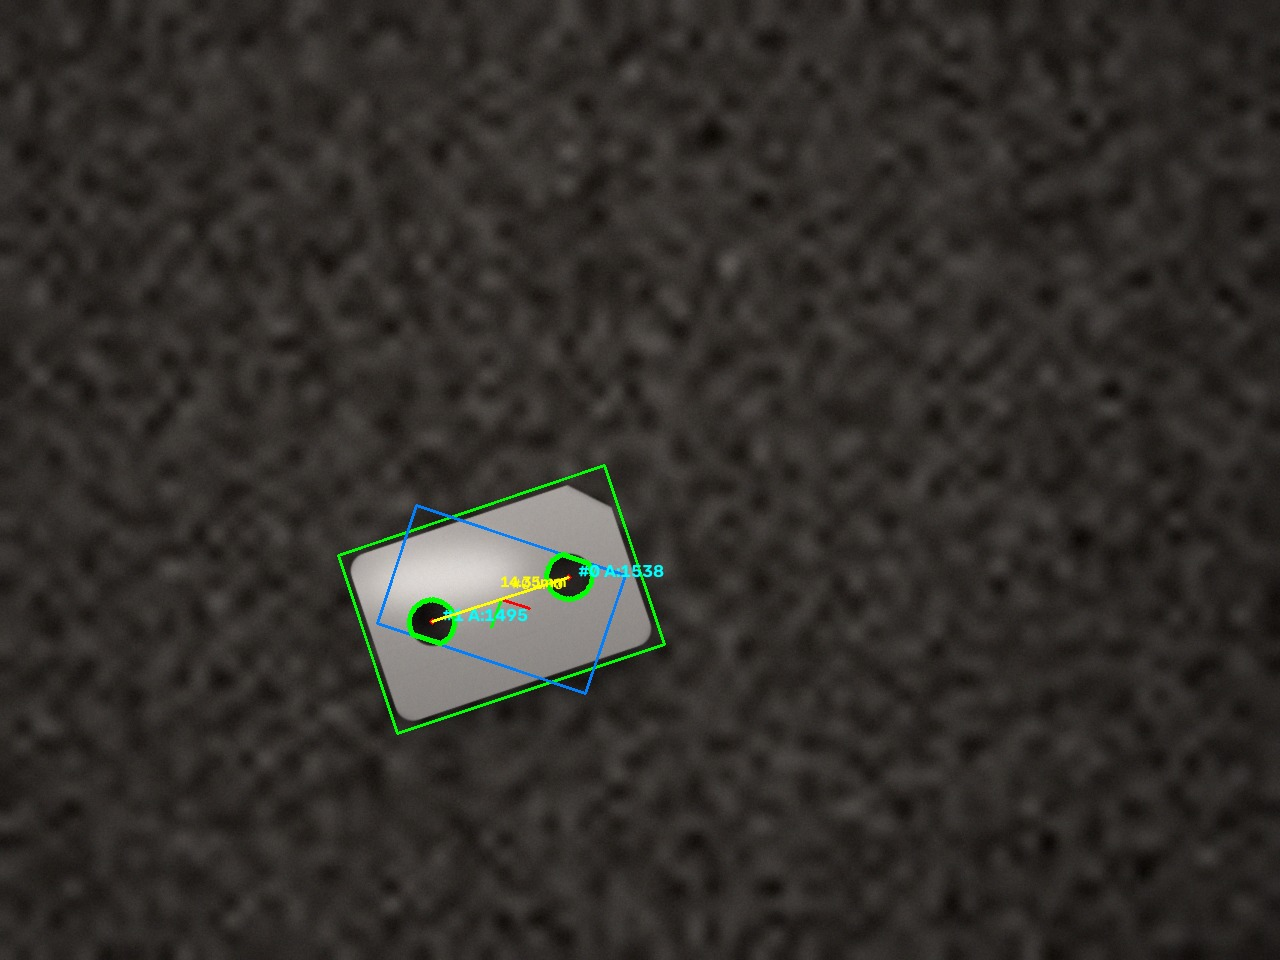
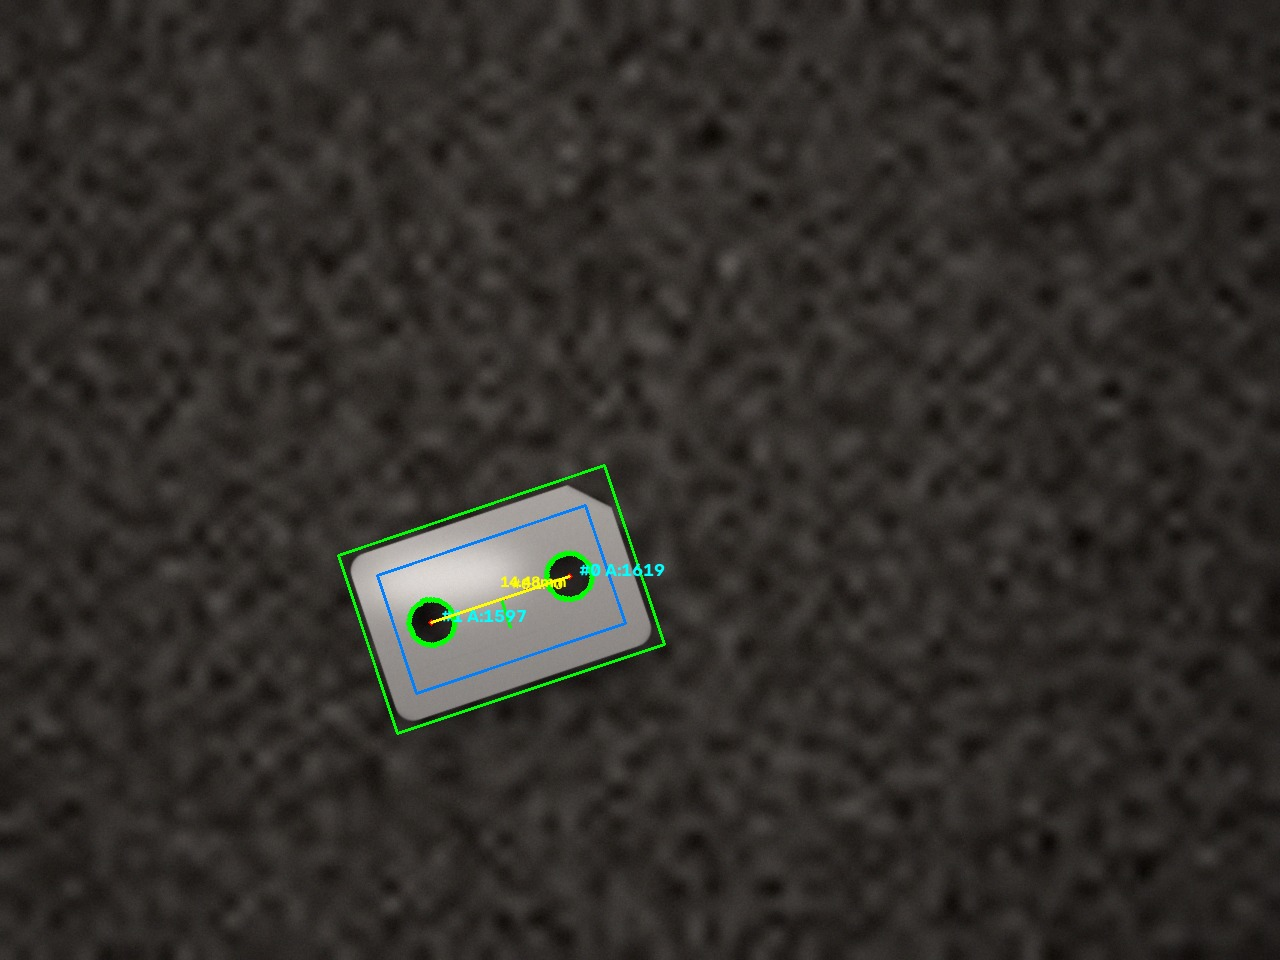
fix: keep match previews at a fixed 250x250 and refresh demo images
The ShapeMatch and PatternMatcher training previews now use a fixed 250x250 viewer instead of a minimum size, so they no longer stretch with the panel. Regenerate the demo result images with the corrected angle conventions so the fixture ROI and axes overlays align with the part.

Changed region(s): [[0.3125, 0.5312, 0.5312, 0.7188], [0.2812, 0.5938, 0.3125, 0.6562]]

diff --git a/tests/ui/test_tool_configs.py b/tests/ui/test_tool_configs.py
@@ -117,6 +117,54 @@ def test_shape_match_config_has_training_ux(qtbot):
 
     dialog.close()
 
+def test_shape_match_preview_has_fixed_square_size(qtbot):
+    from falcocv.tools.shape_match.logic import ShapeMatch
+
+    tool = ShapeMatch()
+    dialog = ToolConfigDialog(tool)
+    qtbot.addWidget(dialog)
+    dialog.resize(1200, 800)
+    dialog.show()
+    widget = dialog._config_widget
+    widget.tabs.setCurrentIndex(1)
+    qtbot.wait(150)
+
+    viewer = widget.template_viewer
+    assert viewer.width() == 250
+    assert viewer.height() == 250
+
+    widget.content_layout.setSizes([700, 500])
+    qtbot.wait(150)
+    assert viewer.width() == 250
+    assert viewer.height() == 250
+
+    dialog.close()
+
+
+def test_pattern_matcher_preview_has_fixed_square_size(qtbot):
+    from falcocv.tools.pattern_matcher.logic import PatternMatcher
+
+    tool = PatternMatcher()
+    dialog = ToolConfigDialog(tool)
+    qtbot.addWidget(dialog)
+    dialog.resize(1200, 800)
+    dialog.show()
+    widget = dialog._config_widget
+    widget.tabs.setCurrentIndex(1)
+    qtbot.wait(150)
+
+    viewer = widget.template_viewer
+    assert viewer.width() == 250
+    assert viewer.height() == 250
+
+    widget.content_layout.setSizes([700, 500])
+    qtbot.wait(150)
+    assert viewer.width() == 250
+    assert viewer.height() == 250
+
+    dialog.close()
+
+
 def test_shape_match_capture_roi_train_uses_roi(qtbot):
     from falcocv.accuracy.synthetic import make_template, render_scene
     from falcocv.core.vision_image import VisionImage

diff --git a/src/falcocv/tools/pattern_matcher/config.py b/src/falcocv/tools/pattern_matcher/config.py
@@ -216,7 +216,7 @@ class PatternMatcherConfig(QWidget):
         layout.addWidget(orig_group)
 
         preview_box = QGroupBox("Pattern Preview"); preview_lyt = QVBoxLayout(preview_box)
-        self.template_viewer = ImageViewer(); self.template_viewer.setMinimumSize(250, 250); preview_lyt.addWidget(self.template_viewer)
+        self.template_viewer = ImageViewer(); self.template_viewer.setFixedSize(250, 250); preview_lyt.addWidget(self.template_viewer)
         layout.addWidget(preview_box); layout.addStretch(); return panel
 
     def _build_search_tab(self):

diff --git a/src/falcocv/tools/shape_match/config.py b/src/falcocv/tools/shape_match/config.py
@@ -155,7 +155,7 @@ class ShapeMatchConfig(QWidget):
         preview_group = QGroupBox("Shape Preview")
         preview_layout = QVBoxLayout(preview_group)
         self.template_viewer = ImageViewer()
-        self.template_viewer.setMinimumSize(250, 250)
+        self.template_viewer.setFixedSize(250, 250)
         preview_layout.addWidget(self.template_viewer)
         layout.addWidget(preview_group)
         layout.addStretch()
